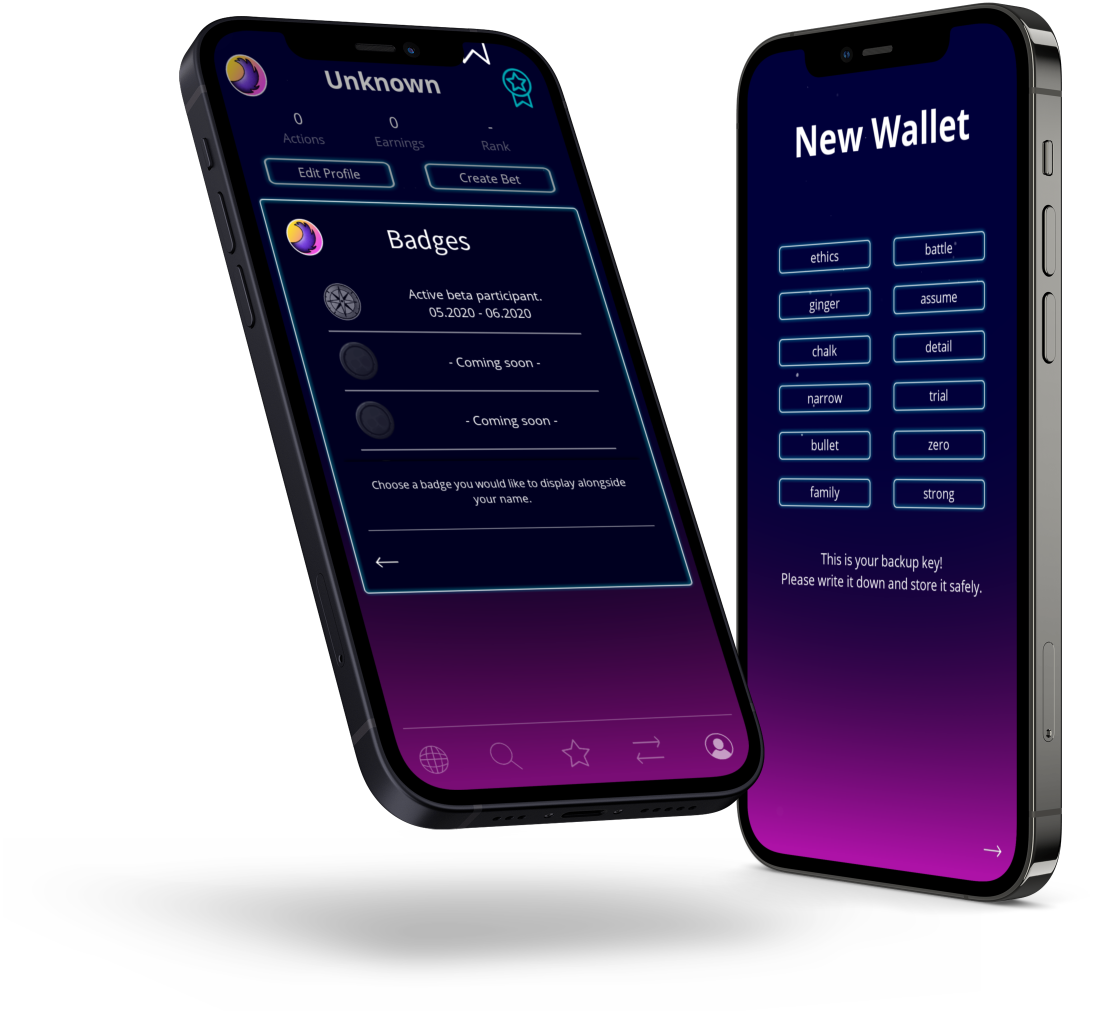
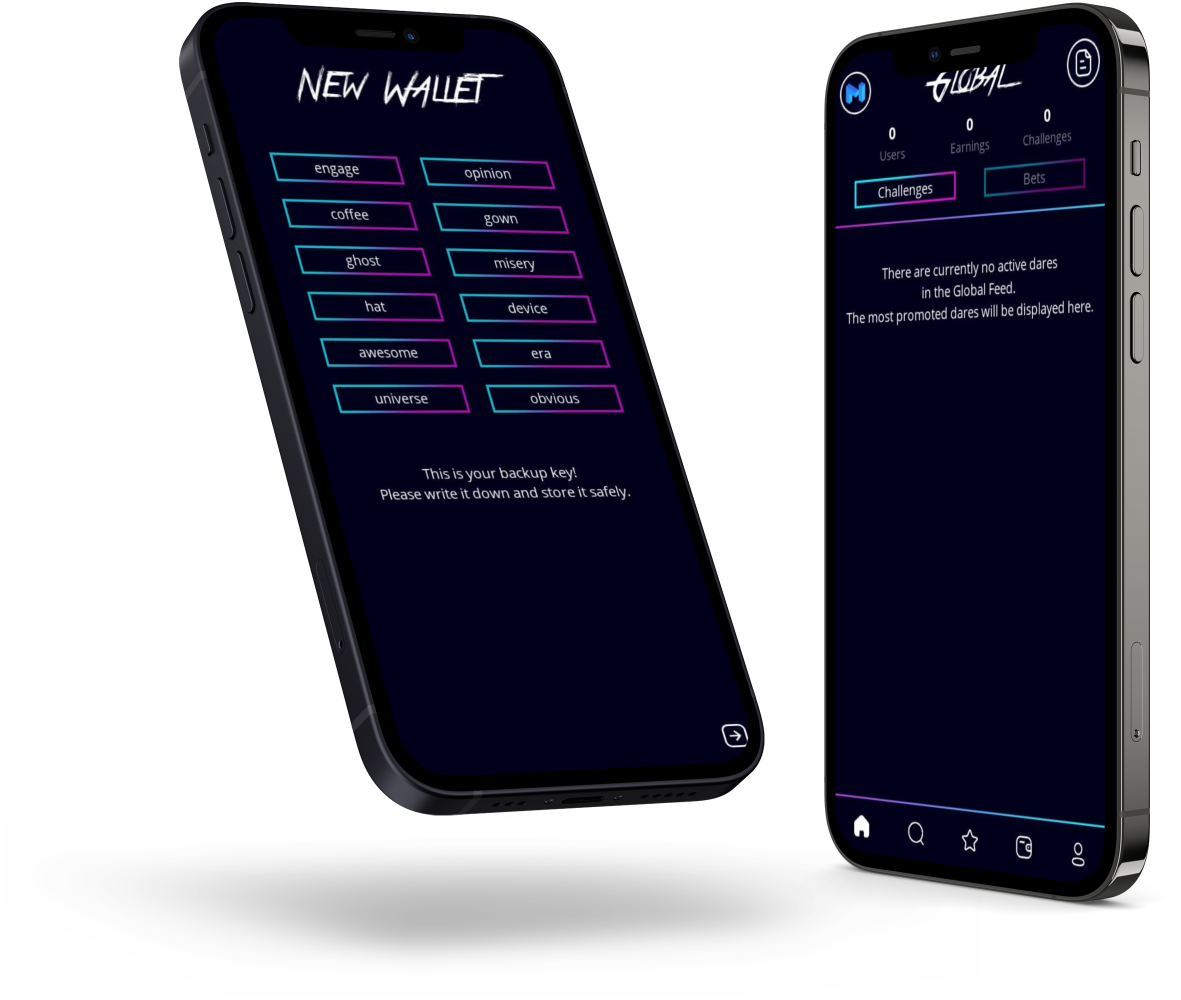
fix theme

diff --git a/src/pages/token.js b/src/pages/token.js
@@ -593,11 +593,8 @@ const About = props => {
         </StyledItemRow>
         <StyledSection>
           <StyledSectionHeader style={{ fontFamily: "True", marginTop: '5rem' }}>{'PLAY AND EARN'}</StyledSectionHeader>
-          <SubTitle style={{ opacity: '0.6' }}>
-          To ensure NERVE is held by those committed to the ecosystem.
-          </SubTitle>
           <StyledItemRow style={{ alignItems: 'center', justifyContent: 'center', padding: '2rem 10rem 2rem 10rem' }}>
-          <GrantsCard style={{ minHeight: "30rem", maxWidth: "25rem" }}>
+          <GrantsCard style={{ minHeight: "30rem", maxWidth: "28rem" }}>
             <StyledBodySubTitle>Task proposals</StyledBodySubTitle>
             <p style={{ textAlign: 'left', margin: '0', opacity: '0.6', fontSize: '16px', fontWeight: 400 }}>
             In the process of creating a task, a 5% fee is deducted from the initial stake to prevent spamming and denial of service. 
@@ -606,13 +603,13 @@ const About = props => {
             At the same time, new NERVE are created, the quantity of which is derived from the current market price and the amount of the paid fee. 
             The creator or participant receives 75% of newly created NERVE according to the fee paid. 25% will accrue to the Nexus Foundation.</p>
           </GrantsCard>
-          <GrantsCard style={{ minHeight: "30rem", maxWidth: "25rem" }}>
+          <GrantsCard style={{ minHeight: "30rem", maxWidth: "28rem" }}>
             <StyledBodySubTitle>Task completion</StyledBodySubTitle>
             <p style={{ textAlign: 'left', opacity: '0.6', fontSize: '16px', fontWeight: 400 }}>
             After a positive consensus over the fulfillment of the task has been reached, a 5% fee is deducted from the final payout and used to generate new NERVE. 
             The performer receives 75% of the newly generated NERVE according to the paid fee. 25% will accrue to the Nexus Foundation. </p>
           </GrantsCard>
-          <GrantsCard style={{ minHeight: "30rem", maxWidth: "25rem" }}>
+          <GrantsCard style={{ minHeight: "30rem", maxWidth: "28rem" }}>
             <StyledBodySubTitle>Bet hosting</StyledBodySubTitle>
             <p style={{ textAlign: 'left', margin: '0', opacity: '0.6', fontSize: '16px', fontWeight: 400 }}>
             A fee of 10% is applied to all distributed winnings and are used to partially reimburse the bet creator for their service. 

diff --git a/src/pages/about.js b/src/pages/about.js
@@ -474,11 +474,11 @@ const About = props => {
             ABOUT
           </Title>
 
-          <StyledSectionTitle>A sustainable and engaging future that is controlled and driven - by the people.</StyledSectionTitle>
+          <StyledSectionTitle>It is our goal to demonstrate and instantiate trust between people.</StyledSectionTitle>
           <SubTitle style={{ opacity: '0.6', textAlign: 'left', marginRight: '48px' }}>
           We envision new global markets that allow the exchange of value between advanced and emerging economies, redistributing value in the exchange 
           for novel kinds of services and accelerating global digitalization. We firmly believe in money as a language for the communication of values and 
-          therefore think universal access to sound digital money is a right to free speech. It is our goal to demonstrate and instantiate trust between people.
+          therefore think universal access to sound digital money is a right to free speech.
           </SubTitle>
           
           <StyledSectionFlex id="about" style={{ flexDirection: 'column' }}>
@@ -571,8 +571,7 @@ const About = props => {
             </p>
 
             <p>
-              We encourage anyone facing issues with their wallet, transaction or Nerve related question to join our
-              active community and explore the <a target="_blank" rel="noreferrer" href={'https://docs.nerveglobal.com'}>documentation</a> site.
+            We encourage anyone facing technical issues to join our active community and explore the <a target="_blank" rel="noreferrer" href={'https://docs.nerveglobal.com'}>documentation</a> site.
             </p>
             <HideSmall>
             <div style={{ display: 'flex', width: '100%', margin: 0 }}>

diff --git a/src/pages/index.js b/src/pages/index.js
@@ -502,16 +502,16 @@ const IndexPage = props => {
         
         <HideSmall>
         <GrantCard>
-            <img style={{ margin: "-5rem 0 0 0" }} src={kitty} width="100%" />
+            <img style={{ minWidth: "20rem", margin: "-7rem 0 0 0" }} src={kitty} width="100%" />
         </GrantCard>
         </HideSmall>
-        <StyledSectionHeaderr style={{ display: 'flex',
+        {/*<StyledSectionHeaderr style={{ display: 'flex',
               alignItems: 'center',
               justifyContent: 'center',
               width: '100%',
               padding: '2rem 0 2rem 0',
               fontFamily: "True"}}>
-          <a /*href="https://info.uniswap.org/"*/>{'POLYGON LAUNCH'}</a>
+          <a>{'POLYGON LAUNCH'}</a>
           </StyledSectionHeaderr>
           <div
             style={{
@@ -523,7 +523,7 @@ const IndexPage = props => {
             }}
           >
             <Countdown />
-            </div>
+            </div>*/}
             {/*}
           <EcosystemSection data={data} props={props} />
           */}
@@ -886,7 +886,7 @@ const KeyAdvantagesBet = () => {
   return (
     <StyledSectionr>
             <HideSmall>
-        <img style={{ position: "absolute", margin: "13.5rem 0 0 -40rem", maxWidth: "35%" }} src={Mockup1} />
+        <img style={{ position: "absolute", margin: "13.5rem 0 0 -40rem", maxWidth: "38%" }} src={Mockup1} />
         </HideSmall>
       <StyledItemRow>
         <span>

diff --git a/src/contexts/Application.js b/src/contexts/Application.js
@@ -10,7 +10,7 @@ const DARK_MODE_OPTION = {
 }
 
 const INITIAL_STATE = {
-  [DARKMODE_KEY]: DARK_MODE_OPTION.LIGHT
+  [DARKMODE_KEY]: DARK_MODE_OPTION.DARK
 }
 
 const ApplicationContext = createContext({})
